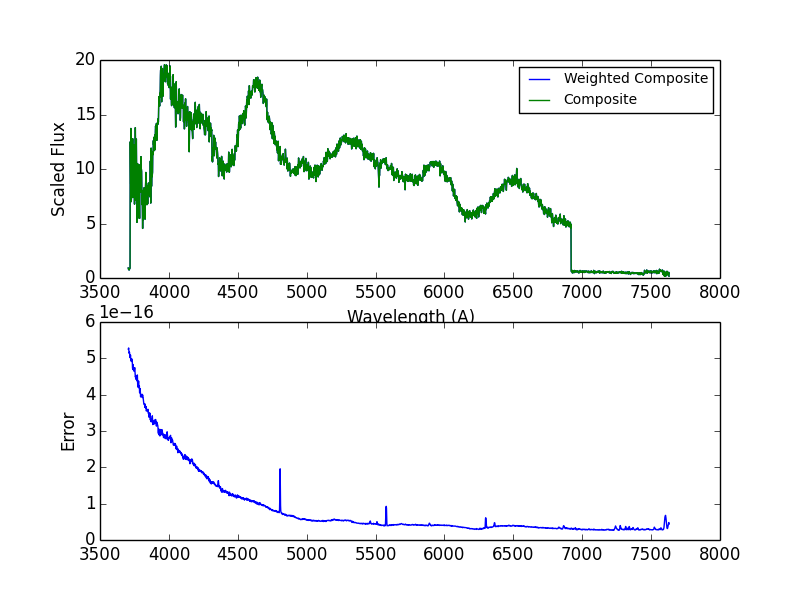
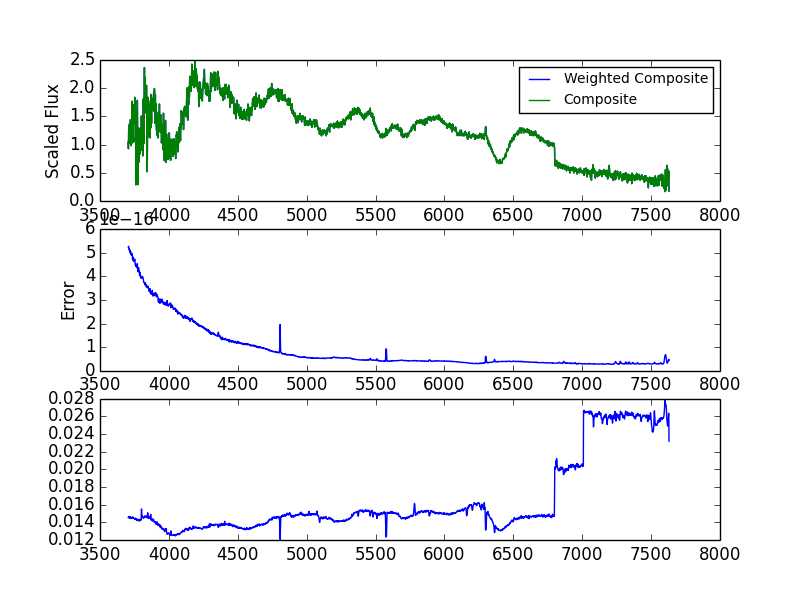
Updated code with average redshift

diff --git a/personal/SamRubin/Averages.py b/personal/SamRubin/Averages.py
@@ -63,7 +63,7 @@ print len(SN_Array), "unique spectra found"
 print "Matching flux data..."
 j = 1
 
-for SN in SN_Array[0:100]:
+for SN in SN_Array[0:10]:
     k = 1
     for filename in max_light:   
         if SN.filename in filename:
@@ -92,36 +92,38 @@ bad_range_Array = []
 
 #averages with weights based on the given errors in .flm files
 def average(compare_spectrum,SN):
-    residual = compare_spectrum.error
-    avg_flux = compare_spectrum.flux
-    mean_flux = compare_spectrum.flux
-    redshifts = compare_spectrum.redshifts
-    lowindex = find_nearest(compare_spectrum.wavelength,np.min(SN.wavelength))
-    highindex = find_nearest(compare_spectrum.wavelength,np.max(SN.wavelength))
+	residual = compare_spectrum.error
+	avg_flux = compare_spectrum.flux
+	avg_red = compare_spectrum.redshifts
+	mean_flux = compare_spectrum.flux
+	redshifts = compare_spectrum.redshifts
+	lowindex = find_nearest(compare_spectrum.wavelength,np.min(SN.wavelength))
+	highindex = find_nearest(compare_spectrum.wavelength,np.max(SN.wavelength))
 #should be np.where(compare_spectrum.wavelength == np.min(SN.wavelength) if data aligned)
-    for i in lowindex+np.arange(highindex-lowindex):
+	for i in lowindex+np.arange(highindex-lowindex):
 #        avg_flux[i] = np.sum(SN.flux[i]/SN.error[i]**2 for SN in SN_Array if SN.error[i] != 0)/np.sum(1/SN.error[i]**2 for SN in SN_Array if SN.error[i] != 0 and SN.error[i] != None)
-        try:
-            if SN.error[i] != 0:
-                fluxes = np.array([compare_spectrum.flux[i],SN.flux[i]])
-                weights = np.array([1./compare_spectrum.error[i], 1./SN.error[i]])
-                redshifts = np.array([compare_spectrum.redshifts, SN.redshifts])
-                mean_flux[i] = np.average(fluxes, weights=weights)
-                avg_flux[i] = np.average(fluxes,weights=weights)
-                compare_spectrum.redshifts[i] = np.average(redshifts, axis=1, weights=weights)
+		try:
+			if SN.error[i] != 0:
+				fluxes = np.array([compare_spectrum.flux[i],SN.flux[i]])
+				weights = np.array([1./compare_spectrum.error[i], 1./SN.error[i]])
+				redshifts = np.array([compare_spectrum.redshifts[i],SN.redshifts[i]])
+				mean_flux[i] = np.average(fluxes, weights=weights)
+				avg_flux[i] = np.average(fluxes,weights=weights)
+				avg_red[i] = np.average(redshifts, weights = weights) 
+				compare_spectrum.redshifts[i] = np.average(redshifts, weights=weights)
                 #compare_spectrum.error[i] = math.sqrt((compare_spectrum.flux[i]-avg_flux[i])**2 + (SN.flux[i]-avg_flux[i])**2)
-            else:
-                break
-        except IndexError:
-            print "No flux data?"
-            i += 1
-            break
+			else:
+				break
+		except IndexError:
+			print "No flux data?"
+			i += 1
+			break
             
-    compare_spectrum.flux = avg_flux
-    compare_spectrum.mean = mean_flux
-    compare_spectrum.redshifts = redshifts
+	compare_spectrum.flux = avg_flux
+	compare_spectrum.mean = mean_flux
+	compare_spectrum.redshifts = avg_red
 # Add residual formula?
-    return compare_spectrum
+	return compare_spectrum
 
 """scale"""
 print "Scaling.."
@@ -156,19 +158,21 @@ for SN in SN_Array:
     compare_spectrum = average(compare_spectrum,SN)
         
     q += 1
+	
+print len(compare_spectrum.wavelength), len(compare_spectrum.redshifts)
 """composite"""
 plt.figure(1)
-plt.subplot(211)
+plt.subplot(311)
 plt.plot(compare_spectrum.wavelength, compare_spectrum.flux,label='Weighted Composite')
 plt.plot(compare_spectrum.wavelength, compare_spectrum.mean,label='Composite')
 plt.xlabel('Wavelength (A)')
 plt.ylabel('Scaled Flux')
-plt.subplot(212)
+plt.subplot(312)
 plt.plot(compare_spectrum.wavelength, compare_spectrum.error, label='Error')
 plt.ylabel('Error')
-plt.subplot(213)
+plt.subplot(313)
 plt.plot(compare_spectrum.wavelength, compare_spectrum.redshifts, label='Redshift')
-plt.subplot(211)
+plt.subplot(311)
 plt.legend(prop={'size':10})
 plt.savefig('Average.png')
 plt.show()
